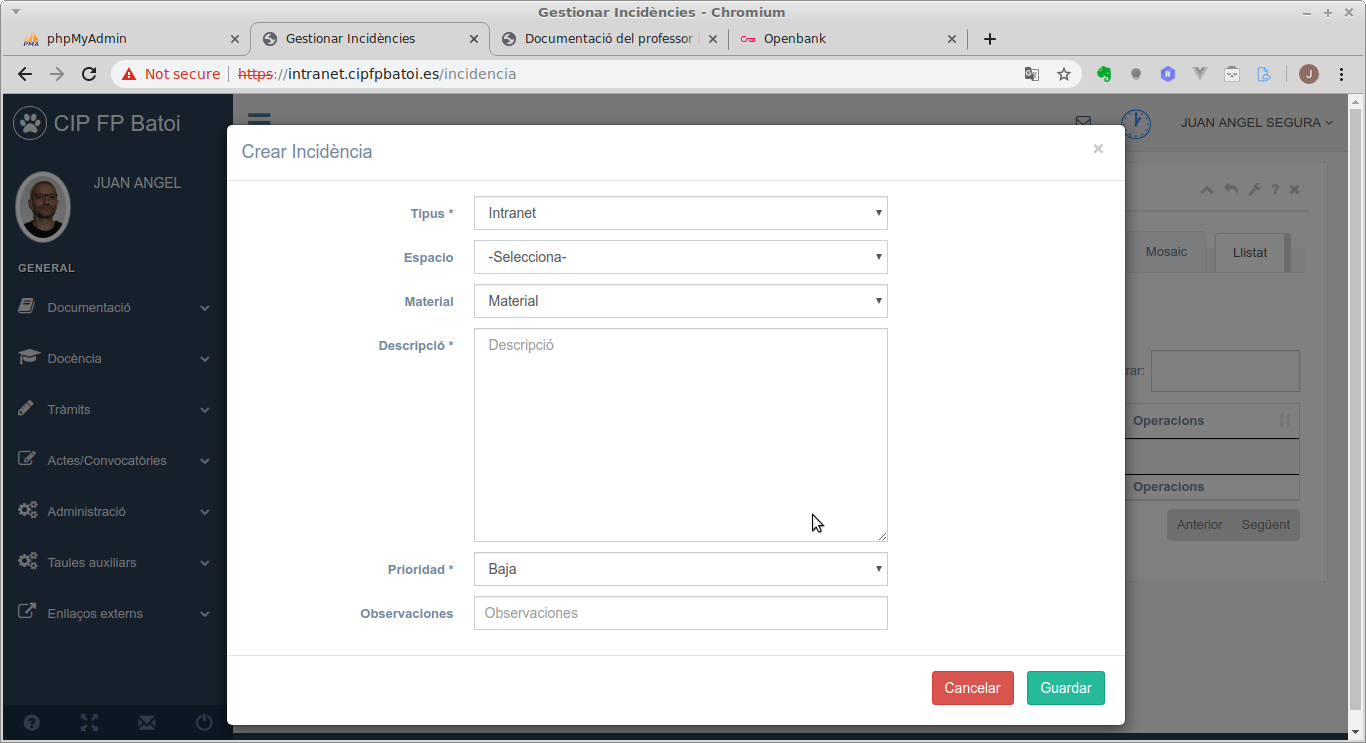
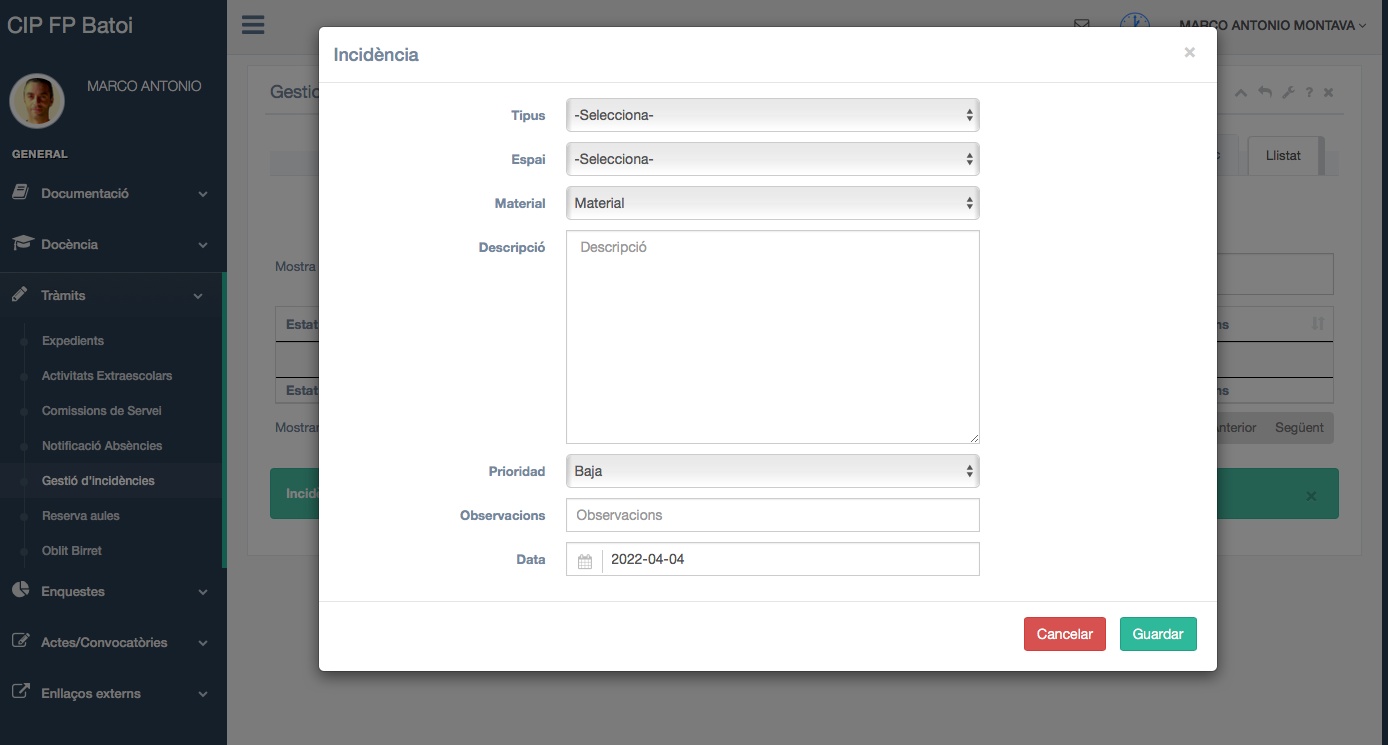
Modificat Comissions de servei i incidències

diff --git a/docs/manual-profe.md b/docs/manual-profe.md
@@ -335,7 +335,11 @@ No podem modificar ni anul·lar comisions cobrades ni pendents de cobrament.
 Polsem el botó 'Sol·licitud autorització comissió de servei' i omplim el formulari:
 ![Alta Comissió de servei](./img/ajuda/13-comissions-alta.png)
 
-Quan polsem el botó 'Guardar' (es troba a la part inferior del formulari) es crea la nova comissió amb l'estat de 'No autoritada'. Ara podrem borrar-la, modificar-la o enviar-la per autoritzar.
+Quan polsem el botó 'Guardar' (es troba a la part inferior del formulari) ens apareix un avís en el que se'ns informa si volem comunicar-ho formalment a Direcció i que s'envien els correus electrónics a les persones implicades. Si polsem que **SÍ** automàticament es comunicarà a direcció de la mateixa forma que si haguerem polsat la icona de Enviar/Tramitar (la icona del sobre). Si polsem que **NO** es guardarà com a un esborrany per a ser posteriorment modificat, pero no estarà tramitat de forma oficial a direcció. Posteriorment podria enviar-se polsant la icona de Enviar (icona del sobre).
+
+![Confirma enviar direcció](./img/ajuda/confirma-enviar-direccio.png)
+
+Ara, depenent de quina opció havem triat, podrem borrar-la, modificar-la o enviar-la per autoritzar.
 
 ### Notificació absències
 Aquesta aplicació ens permet informar a Caporalia de qualsevol absència i justificar-la.
@@ -361,9 +365,14 @@ El que em d'omplir en el formulari és:
 * Comentaris: qualsevol cosa que vulgam afegir. Si no hem especificat un motiu hem d'indicar-lo ací
 * Fitxer: per a adjuntar un fitxer escanejat com justificant (certificat d'assistència al metge o a alguna activitat, etc)
 
-![Absències registrades](./img/ajuda/13-ausencia.png)
+Quan polsem el botó 'Guardar' (es troba a la part inferior del formulari) ens apareix un avís en el que se'ns informa si volem comunicar-ho formalment a Direcció i que s'envien els correus electrónics a les persones implicades. Si polsem que **SÍ** automàticament es comunicarà a direcció de la mateixa forma que si haguerem polsat la icona de Enviar/Tramitar (la icona del sobre). Si polsem que **NO** es guardarà com a un esborrany per a ser posteriorment modificat, pero no estarà comunicat de forma oficial a direcció. Posteriorment podria enviar-se polsant la icona de Enviar (icona del sobre).
+
+![Comunicar absencia direccio](./img/ajuda/confirma-enviar-direccio2.png)
 
 Les absències donades d'alta es poden visualitzar en format de **Llistat** o **Mosaic** polsant en les pestanyes de dalt a la dreta. Una vegada donada d'alta una absència, el podem eliminar o editar però l'expedient **no es tramita fins que ho enviem a direcció** (icona del sobre). 
+
+![Absències registrades](./img/ajuda/13-ausencia.png)
+
 
 Amb les absències donades d'alta podem fer:
 
@@ -385,8 +394,7 @@ També tenim un botó per a obrir una nova incidència que li arribarà al respo
 * Instal·lacions: fontaneria, electricitat, fusteria, obra, estors, cristaleria, etc
 * Manteniment informàtic: qualsevol problema informàtic en les aules, el departament, etc
 * Intranet: qualsevol problema o error que trobem en la intranet del Centre
-* Gestió de queixes i sugerències: ací podem fer arribar qualsevol sugerència de millora o queixa
-* Incidències procés FCT: totes les incidències realacionades amb les FCT dels alumnes
+* Gestió de suggerimets, queixes i reclamacions: ací podem fer arribar qualsevol sugerència de millora o queixa
 
 Quan obrim una nova incidència hem d'indicar el seu tipus i a més:
 
@@ -396,7 +404,8 @@ Quan obrim una nova incidència hem d'indicar el seu tipus i a més:
 * Material: si hem triat espai ací ens apareixen tots els materials inventariats en eixe espai per a triar-lo. Si no està o no és algo inventariable ho deixarem en blanc i ho especificarem en l'apartat de '_descripció_'
 * Descripció: ací detallem la incidència que hem detectat
 * Prioritat: triem la prioritat que considerem més oportuna
-* Obcervacions
+* Observacions
+* Data de la incidència
 
 Aquesta incidència es crea amb estat de **'Pendent'**.
 
